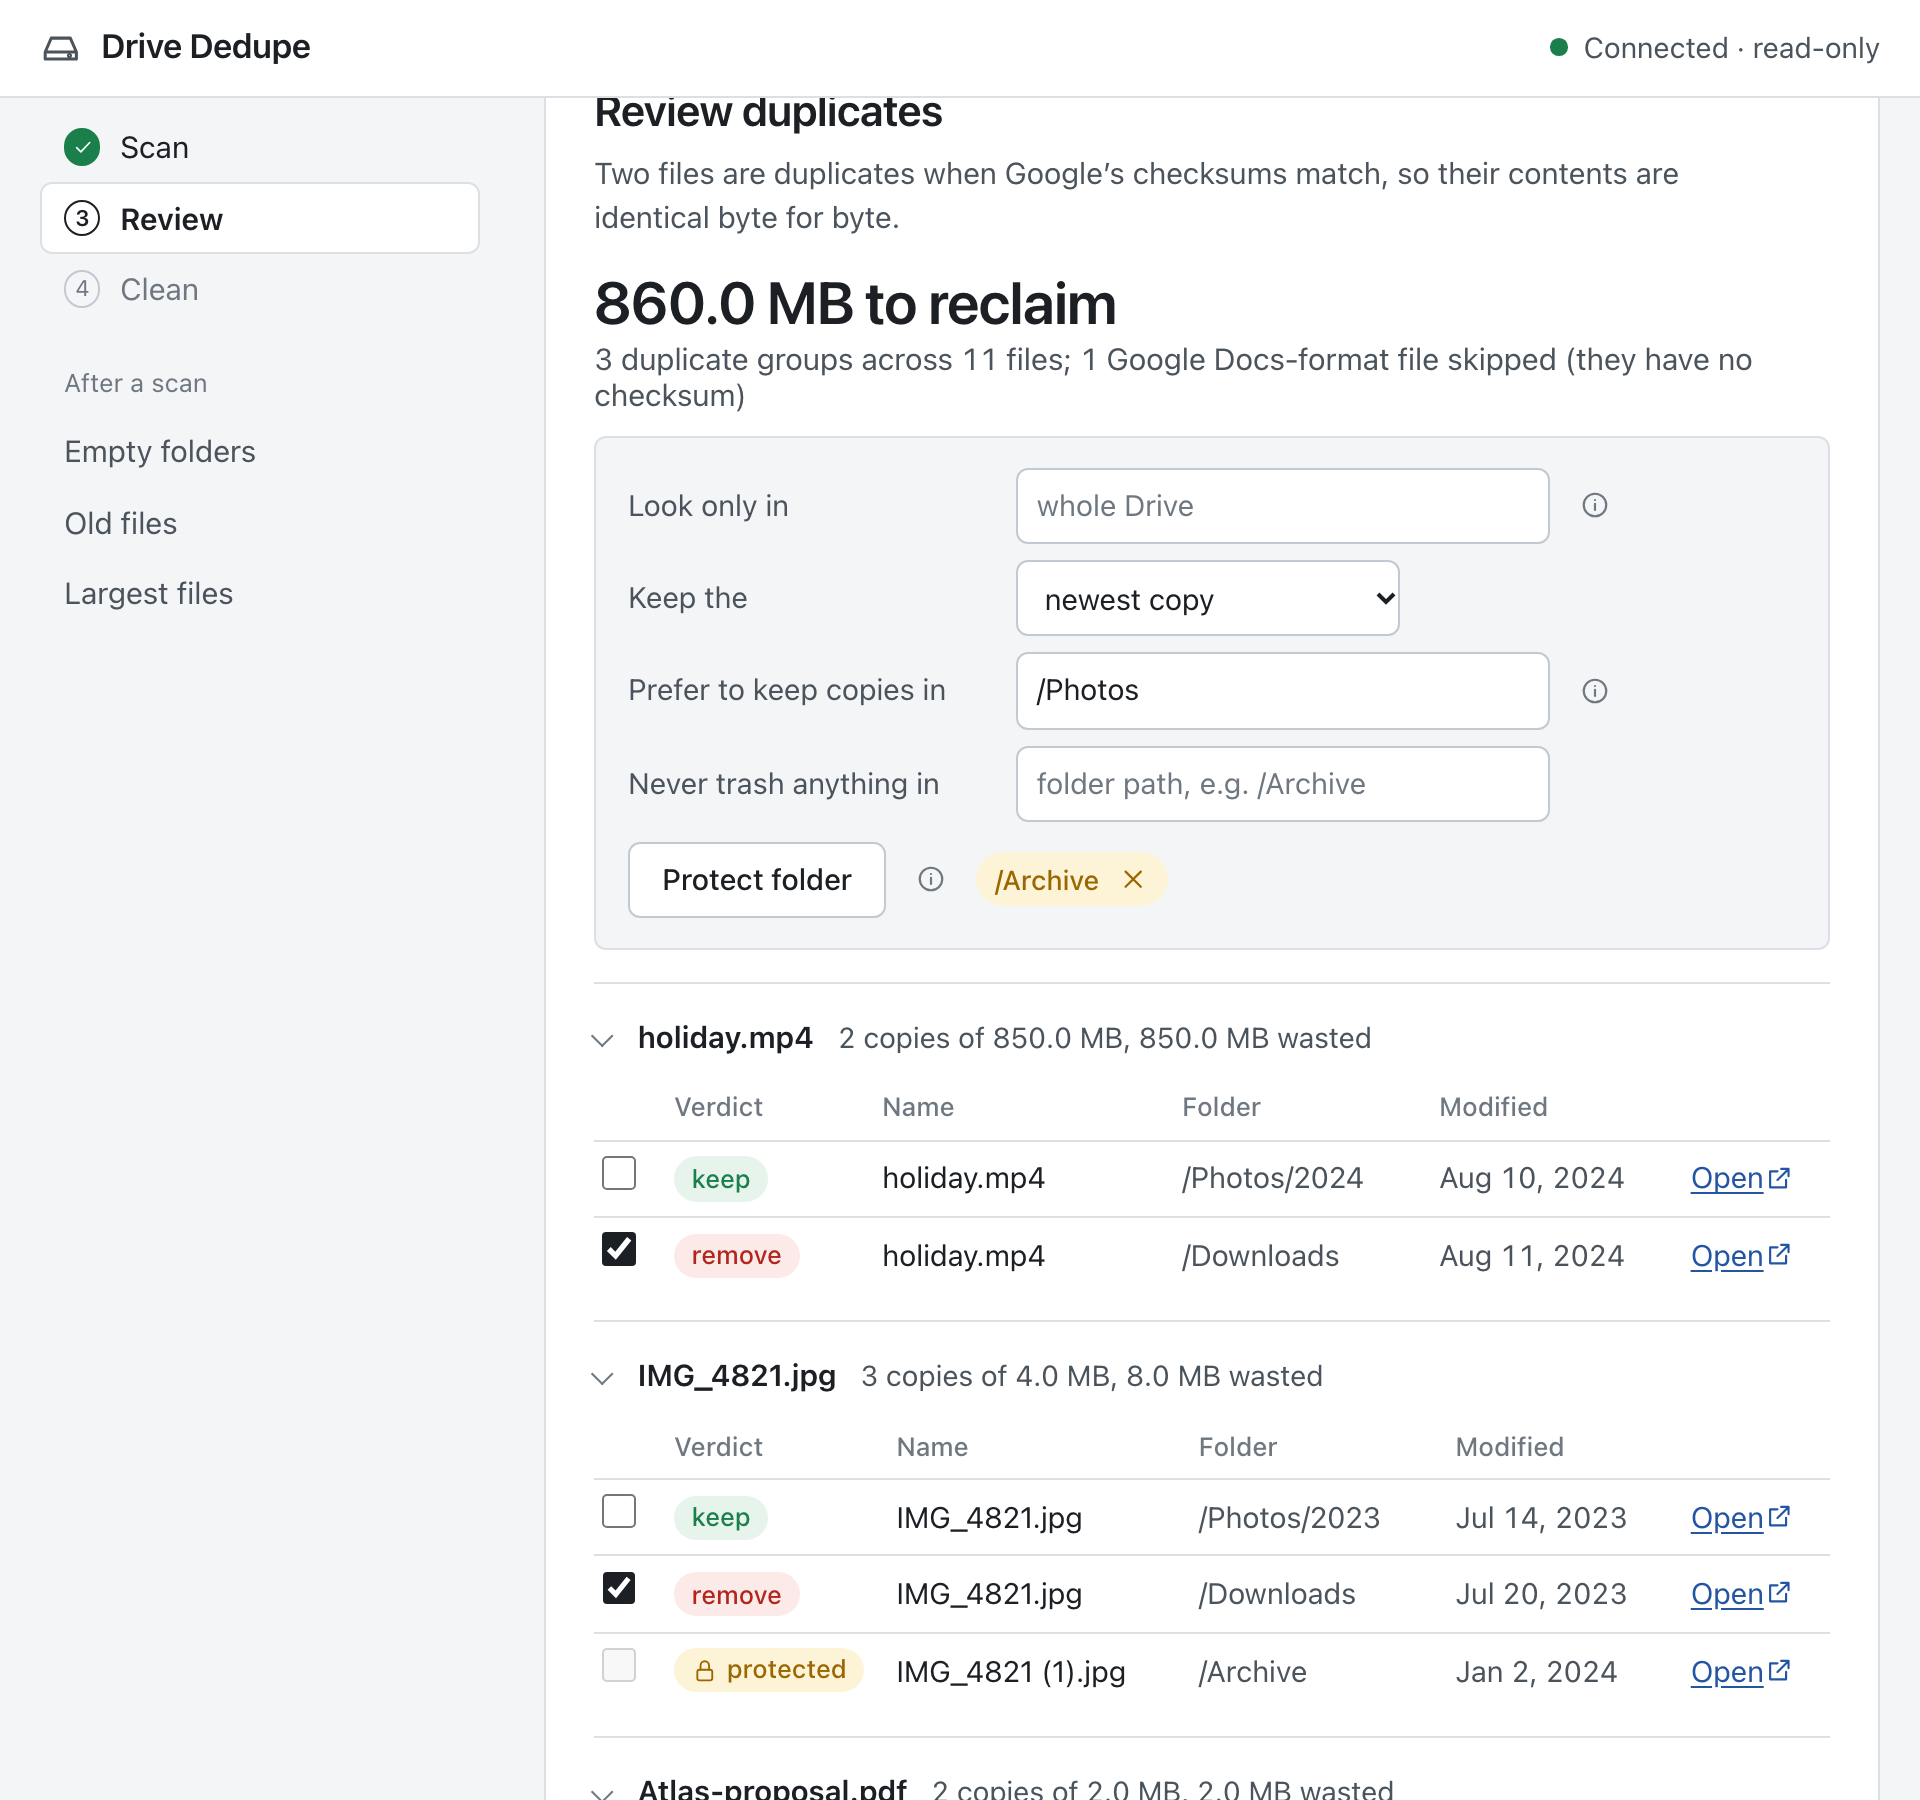
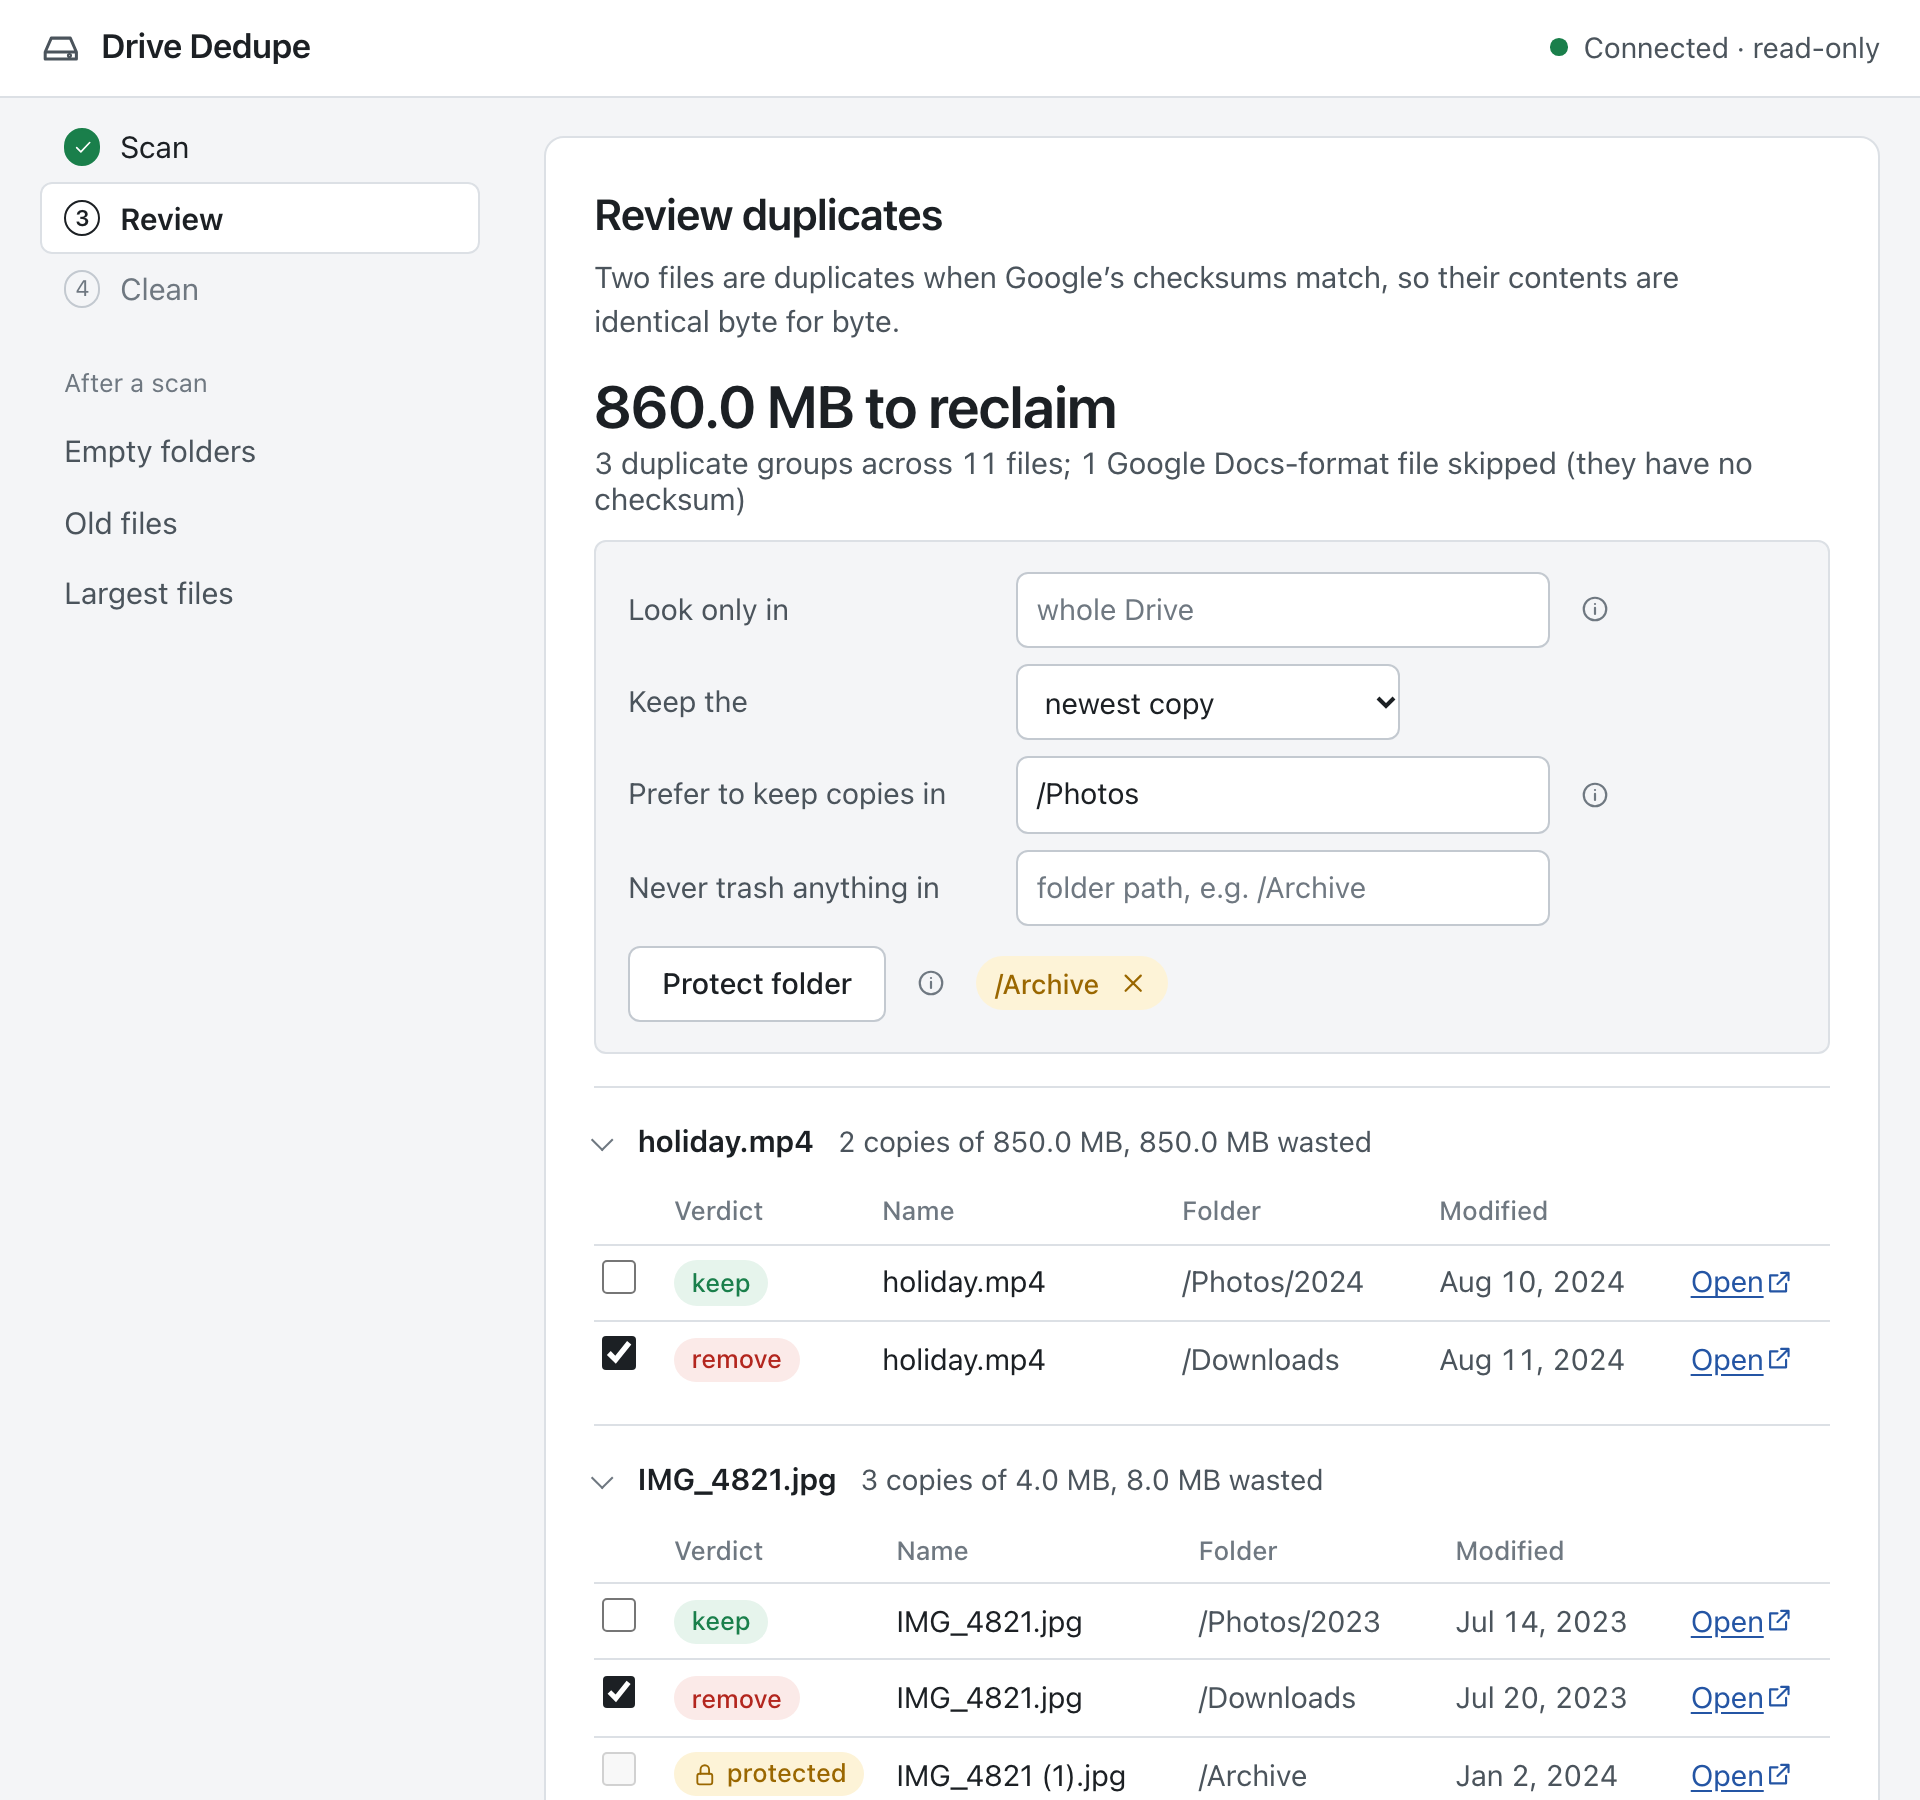
ui: keep sections clear of the sticky bar when rail links scroll; refresh screenshots

diff --git a/gdrive_dedupe/web/static/style.css b/gdrive_dedupe/web/static/style.css
@@ -110,7 +110,7 @@ code { font-family: var(--mono); font-size: 0.9em; overflow-wrap: anywhere; }
 .content { display: grid; grid-template-columns: minmax(0, 1fr); gap: 1.25rem; min-width: 0; }
 .stage {
   background: var(--surface); border: 1px solid var(--line); border-radius: var(--radius-lg);
-  padding: 1.35rem 1.5rem; scroll-margin-top: 1rem; min-width: 0;
+  padding: 1.35rem 1.5rem; scroll-margin-top: 4.25rem; min-width: 0;
 }
 .stage-head { display: flex; align-items: baseline; justify-content: space-between; gap: 1rem; margin-bottom: 0.9rem; flex-wrap: wrap; }
 .stage-head p { color: var(--ink-2); margin: 0.2rem 0 0; max-width: 62ch; }
